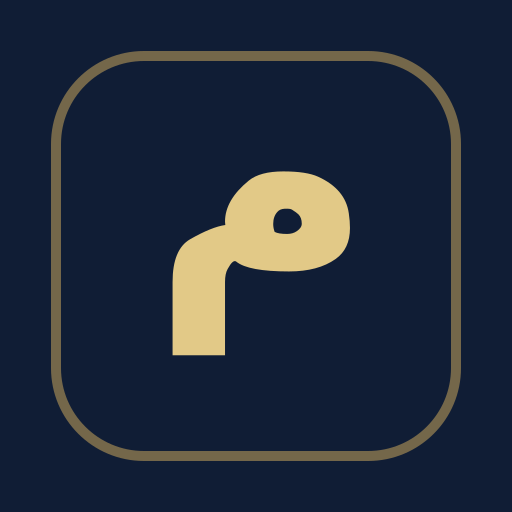
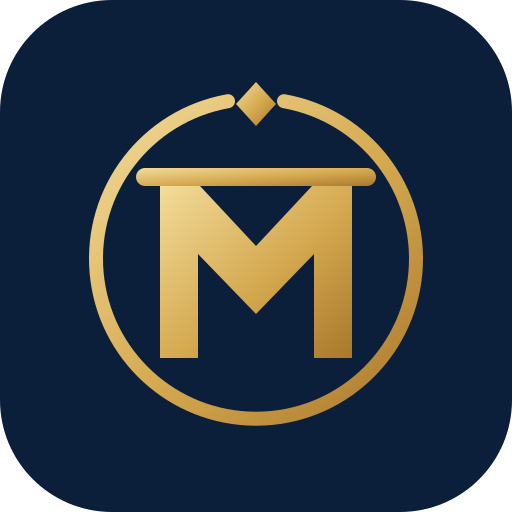
feat: v47.1 — اعتماد القيد اليدوي (المحاسب أو المالك) + غلاف المنصة + العلامة المعتمدة
- القيد اليدوي لغير المالك «بانتظار الاعتماد» ولا يدخل الدفاتر؛ يعتمده المحاسب أو المالك ولا اعتماد ذاتي؛ الرفض بسبب
- غلاف الهوية على شاشات الدخول (عمود على الحاسوب، شريط على الجوال)
- العلامة: حلقة عالمية + معين الارتكاز + M تحت عارضة الميزان — في المنصة والمطبوعات والأيقونات
- npm test 121/121، الواجهة 75/76 (الوحيد: مكتبة الباركود غير متاحة في البيئة)

Claude-Session: https://claude.ai/code/session_01Sn4X3xFJEzePhWv4WkdeCv

diff --git a/mods/acct/Accounting.jsx b/mods/acct/Accounting.jsx
@@ -6,7 +6,7 @@ import { Scale, FileBarChart, ChevronDown, Printer, Settings, Receipt, BarChart3
 import { VatRegisters, SupplierPurchReport } from './TaxPurchReports.jsx';   // v39.1
 import { Suppliers } from '../inv/Suppliers.jsx';   // v44.0 «مستلم لم يُفوتر»
 import { OdooBar } from '../../App.jsx';   // v41.0
-import { ACCT_SECTIONS, ACC_KIND, Field, Kpi, LOCK_MSG, MizanMerge, Modal, NUM_FACE, Num, ROLES, _xe, acctSecKey, arDate, bankOfBranch, branchBanks, bsLayout, bsRowsOf, buildAccounting, buildPartners, capOK, countedClosing, customerAging, detectStmtMap, entityById, entityList, gosiRatesFor, isLayout, isRowsOf, isoD, lockedThru, makeXlsx, money, monthEnd, monthLedger, multiEntityOn, naMissing, nowISO, openDocWin, parseCsvGrid, parseMt940, parseXlsxGrid, payTotal, periodLocked, posClrOf, printA4, qrSvg, roleEdit, rolePost, snapMonths, stAddDays, stDate, stNum, sum, supplierAging, today, uid, useSecNav, zatcaTLV } from '../../App.jsx';
+import { jeOwner, canApproveJe, ACCT_SECTIONS, ACC_KIND, Field, Kpi, LOCK_MSG, MizanMerge, Modal, NUM_FACE, Num, ROLES, _xe, acctSecKey, arDate, bankOfBranch, branchBanks, bsLayout, bsRowsOf, buildAccounting, buildPartners, capOK, countedClosing, customerAging, detectStmtMap, entityById, entityList, gosiRatesFor, isLayout, isRowsOf, isoD, lockedThru, makeXlsx, money, monthEnd, monthLedger, multiEntityOn, naMissing, nowISO, openDocWin, parseCsvGrid, parseMt940, parseXlsxGrid, payTotal, periodLocked, posClrOf, printA4, qrSvg, roleEdit, rolePost, snapMonths, stAddDays, stDate, stNum, sum, supplierAging, today, uid, useSecNav, zatcaTLV } from '../../App.jsx';
 
 export function Accounting({ org, ops, me, commit, commitOrg, say, setTab, acctIntent }) {
   const [view, setView] = useState('jr');           // jr قيود · coa دليل · tb ميزان · fs قوائم
@@ -1100,18 +1100,37 @@ export function Accounting({ org, ops, me, commit, commitOrg, say, setTab, acctI
   const saveJm = async () => {
     if (periodLocked(org, jm && jm.date)) return say(LOCK_MSG(jm.date), 'no');
     if (!jmOk) return say('القيد غير مكتمل — اختر الحسابات وتأكد أن مجموع المدين يساوي الدائن', 'no');
+    const direct = jeOwner(me);   // v47.1: قيد المالك يُرحَّل مباشرة، وغيره ينتظر اعتماد المحاسب أو المالك
     const rec = {
       id: uid('jm'), date: jm.date || today(), title: jm.title.trim() || (jm.opening ? 'قيد افتتاحي' : 'قيد يدوي'),
-      opening: !!jm.opening, by: me?.name || '', createdAt: nowISO(),
+      opening: !!jm.opening, by: me?.name || '', byId: me?.id || '', createdAt: nowISO(),
+      status: direct ? 'posted' : 'pending', ...(direct ? { approvedBy: me?.name || '', approvedAt: nowISO() } : {}),
       lines: jm.lines.filter(l => l.code && ((Number(l.debit) || 0) + (Number(l.credit) || 0)) > 0)
         .map(l => ({ code: l.code, debit: Number(l.debit) || 0, credit: Number(l.credit) || 0 }))
     };
     await commit(d => ({ ...d, journalManual: [rec, ...(d.journalManual || [])] }), {
       actionType: 'create', targetType: 'journal_entry', targetId: rec.id,
-      need: 'post', title: rec.opening ? 'أضاف قيدًا افتتاحيًا' : 'أضاف قيدًا محاسبيًا يدويًا',
+      need: 'post', title: (rec.opening ? 'أضاف قيدًا افتتاحيًا' : 'أضاف قيدًا محاسبيًا يدويًا') + (direct ? '' : ' (بانتظار الاعتماد)'),
       details: rec.title + ' · ' + money(sum(rec.lines, l => l.debit)) + ' ر.س'
     });
-    setJm(null); say('سُجّل القيد ✓ — التصحيح لاحقًا يكون بقيد عكسي لا بالحذف');
+    setJm(null); say(direct ? 'سُجّل القيد ✓ — التصحيح لاحقًا يكون بقيد عكسي لا بالحذف' : 'أُرسل القيد للاعتماد ✓ — يعتمده المحاسب أو المالك، ولا يدخل الدفاتر قبل ذلك');
+  };
+  // v47.1 — القيود اليدوية بانتظار الاعتماد
+  const [jePend, setJePend] = useState(false);
+  const pendJe = (ops.journalManual || []).filter(j => j.status === 'pending');
+  const decideJe = async (j, ok) => {
+    if (!canApproveJe(me, j)) return say(j.byId === me?.id || j.by === me?.name ? 'لا تعتمد قيدًا أدخلته بنفسك — يعتمده محاسب آخر أو المالك' : 'اعتماد القيود للمحاسب أو المالك', 'no');
+    if (ok && periodLocked(org, j.date)) return say(LOCK_MSG(j.date), 'no');
+    let reason = '';
+    if (!ok) { reason = (window.prompt('سبب رفض القيد «' + (j.title || '') + '»:') || '').trim(); if (!reason) return; }
+    const done = await commit(d => ({ ...d, journalManual: (d.journalManual || []).map(x => x.id === j.id && x.status === 'pending' ? { ...x, status: ok ? 'posted' : 'rejected', ...(ok ? { approvedBy: me?.name || '', approvedAt: nowISO() } : { rejectedBy: me?.name || '', rejectedAt: nowISO(), rejectReason: reason }) } : x) }),
+      { actionType: ok ? 'approve' : 'reject', targetType: 'journal_entry', targetId: j.id, need: 'post', title: (ok ? 'اعتمد' : 'رفض') + ' قيدًا يدويًا — ' + (j.title || ''), details: money(sum(j.lines || [], l => l.debit || 0)) + ' ر.س · أدخله ' + (j.by || '') + (reason ? ' · السبب: ' + reason : '') });
+    if (done) say(ok ? 'اعتُمد القيد ورُحّل للدفاتر ✓' : 'رُفض القيد');
+  };
+  const delPendJe = async (j) => {
+    if (!(j.byId === me?.id || j.by === me?.name || canApproveJe(me))) return say('الحذف لمن أدخل القيد أو للمعتمِد', 'no');
+    if (!window.confirm('حذف القيد «' + (j.title || '') + '» قبل اعتماده؟')) return;
+    await commit(d => ({ ...d, journalManual: (d.journalManual || []).filter(x => !(x.id === j.id && x.status === 'pending')) }), { actionType: 'delete', targetType: 'journal_entry', targetId: j.id, need: 'post', title: 'حذف قيدًا يدويًا قبل اعتماده — ' + (j.title || '') });
   };
 
   // v9.7 — الحسابات القابلة لإدخال رصيد افتتاحي (أصول/خصوم، عدا ضريبة ومجمع إهلاك وأصول ثابتة ورأس المال المحسوب)
@@ -1407,7 +1426,9 @@ export function Accounting({ org, ops, me, commit, commitOrg, say, setTab, acctI
           { id: 'tools', ar: 'أدوات', icon: Download, items: ['export', 'mizan'] }
         ];
         const ok = (v) => viewOK(v) && (v !== 'mizan' || canPost);
-        const manualBtn = canPost && ACCT_SECTIONS.some(s => viewOK(s.v)) && <button className="btn sm" style={{ marginInlineStart: 'auto' }} onClick={newJm}><Plus size={14} />قيد يدوي / افتتاحي</button>;
+        const manualBtn = canPost && ACCT_SECTIONS.some(s => viewOK(s.v)) && <>
+          {pendJe.length > 0 && <button className="btn sm" style={{ marginInlineStart: 'auto', color: 'var(--amber)' }} onClick={() => setJePend(true)}><ClipboardCheck size={14} />قيود بانتظار الاعتماد ({pendJe.length})</button>}
+          <button className="btn sm" style={pendJe.length ? undefined : { marginInlineStart: 'auto' }} onClick={newJm}><Plus size={14} />قيد يدوي / افتتاحي</button></>;
         const modeSw = (
           <div className="acct-mode" role="group" aria-label="طريقة عرض الأقسام">
             <button className={acctNavMode === 'dd' ? 'on' : ''} onClick={() => switchAcctNav('menu')} title="شريط قوائم"><ChevronDown size={14} /><span>قوائم</span></button>
@@ -3676,6 +3697,24 @@ export function Accounting({ org, ops, me, commit, commitOrg, say, setTab, acctI
         );
       })()}
 
+      {jePend && (
+        <Modal title={'قيود بانتظار الاعتماد (' + pendJe.length + ')'} icon={ClipboardCheck} onClose={() => setJePend(false)} wide>
+          <div className="note" style={{ marginBottom: 8 }}>يعتمد القيدَ المحاسبُ أو المالك، ولا يعتمد أحدٌ قيدًا أدخله بنفسه. القيد لا يدخل الدفاتر قبل اعتماده.</div>
+          {!pendJe.length && <div className="empty">لا قيود بانتظار الاعتماد.</div>}
+          {pendJe.map(j => <div key={j.id} className="card" style={{ marginBottom: 8 }} data-je-pending={j.id}>
+            <div className="row" style={{ justifyContent: 'space-between', flexWrap: 'wrap', gap: 6 }}><b>{j.title}</b><span className="num" style={{ fontSize: 12, color: 'var(--dim)' }}>{j.date} · أدخله {j.by}</span></div>
+            <div className="tw"><table className="tb"><thead><tr><th>الحساب</th><th style={{ textAlign: 'end' }}>مدين</th><th style={{ textAlign: 'end' }}>دائن</th></tr></thead><tbody>
+              {(j.lines || []).map((l, i) => <tr key={i}><td>{l.code} · {(A.accounts.find(a => a.code === l.code) || {}).name || ''}</td><td className="num" style={{ textAlign: 'end' }}>{l.debit ? money(l.debit) : ''}</td><td className="num" style={{ textAlign: 'end' }}>{l.credit ? money(l.credit) : ''}</td></tr>)}
+            </tbody></table></div>
+            <div className="row" style={{ gap: 6, marginTop: 6 }}>
+              {canApproveJe(me, j) && <button className="btn sm pri" onClick={() => decideJe(j, true)}><Check size={13} />اعتماد وترحيل</button>}
+              {canApproveJe(me, j) && <button className="btn sm gh" style={{ color: 'var(--rose)' }} onClick={() => decideJe(j, false)}>رفض</button>}
+              {(j.byId === me?.id || j.by === me?.name) && <button className="btn sm gh" onClick={() => delPendJe(j)}><Trash2 size={13} />حذف</button>}
+              {!canApproveJe(me, j) && <span style={{ fontSize: 12, color: 'var(--dim)', alignSelf: 'center' }}>{j.byId === me?.id || j.by === me?.name ? 'بانتظار اعتماد محاسب آخر أو المالك' : 'الاعتماد للمحاسب أو المالك'}</span>}
+            </div>
+          </div>)}
+        </Modal>
+      )}
       {jm && (
         <Modal title={jm.opening ? 'قيد افتتاحي' : 'قيد محاسبي يدوي'} sub="مجموع المدين يجب أن يساوي مجموع الدائن — وكل سطر في جهة واحدة فقط"
           icon={FileText} onClose={() => setJm(null)} wide

diff --git a/App.jsx b/App.jsx
@@ -2416,7 +2416,8 @@ function buildAccounting(org, ops) {
   }
 
   // 9مكرر) القيود اليدوية والافتتاحية — يُدخلها المحاسب من شاشة المحاسبة (التصحيح بقيد عكسي لا بالحذف)
-  (ops.journalManual || []).forEach(j => {
+  // v47.1: القيد بانتظار الاعتماد أو المرفوض لا يُرحَّل (القيود القديمة والآلية بلا حالة = مرحّلة)
+  (ops.journalManual || []).filter(jeLive).forEach(j => {
     push({
       id: 'man:' + j.id, date: (j.date || '').slice(0, 10),
       title: j.title || 'قيد يدوي', src: j.opening ? 'قيد افتتاحي' : j.vatClose ? 'إقفال ضريبي' : j.vatPay ? 'سداد ضريبة' : (j.mizanSales ? 'مبيعات مستوردة' : 'قيد يدوي'),
@@ -2523,7 +2524,15 @@ const readMode = () => { try { return localStorage.getItem('rms8:mode') === 'dar
 const themeCls = (t, mode) => { const n = normTheme(t); return 'rms mode-' + (mode === 'dark' ? 'dark' : 'light') + (n === 'restpro' ? ' thm-mizan thm-restpro' : ' thm-' + n); };
 // v46.8: الهوية «مِثقال — Mithqal» وشعارها؛ الترجمة الإنجليزية في i18n.js (TX)
 const BRAND = 'مِثقال', BRAND_SUB = 'منصة واحدة، لكل الأعمال ومن أي مكان', BRAND_AR = 'مِثقال — Mithqal';
-const BRAND_MARK = () => (isEn() ? 'M' : 'م');
+// v47.1 — العلامة المعتمدة: حلقة عالمية (عملة/كرة أرضية) مفتوحة أعلاها لمعين الارتكاز، وحرف M معلّق تحت عارضة الميزان.
+// لون واحد (currentColor) فتأخذ لون الحاوية: كحلي على الذهبي في المنصة.
+const BRAND_MARK = () => (
+  <svg viewBox="0 0 200 200" width="78%" height="78%" aria-hidden="true" style={{ display: 'block' }}>
+    <path d="M86 22.6 A80 80 0 1 0 114 22.6" fill="none" stroke="currentColor" strokeWidth="9" strokeLinecap="round" />
+    <path d="M100 12 l11 12 -11 12 -11 -12z" fill="currentColor" />
+    <rect x="40" y="56" width="120" height="10" rx="5" fill="currentColor" />
+    <path d="M52 66 h20 l28 30 28 -30 h20 v85 h-19 v-51 l-29 30 -29 -30 v51 h-19z" fill="currentColor" />
+  </svg>);
 
 // v44.0 — قرار المالك: تحويل الاستلام غير المطابق إلى فاتورة للمحاسب ومدير النظام فقط (يُفرض في قواعد Firestore: [ROLES:PINV])
 const INV_BILLERS = ['accountant', 'system_admin'];
@@ -2590,6 +2599,12 @@ const ROLES = {
 // v15.9: اشتقاق صلاحيات الكتابة من الدور — canPost=إدخال/ترحيل، canEdit=تعديل/حذف/تغيير إعدادات.
 // (للأدوار القائمة: readOnly/postOnly غير معرّفين ⇒ canPost=canEdit=النطاق الكامل، بلا أي تغيير سلوك.)
 const rolePost = (role) => ROLES[role]?.scope === 'all' && !ROLES[role]?.readOnly;
+/* v47.1 — اعتماد القيد اليدوي (قرار المالك): يعتمده المحاسب أو المالك.
+   قيد المالك (مسؤول النظام/الإدارة العليا) يُرحَّل مباشرة؛ قيد غيره ينتظر الاعتماد، ولا يعتمد أحدٌ قيدًا أدخله بنفسه.
+   المرحّل فقط يدخل الدفاتر؛ المرفوض يبقى للأثر بسببه. */
+const jeLive = (j) => !j || !j.status || j.status === 'posted';
+const jeOwner = (me) => !!(ROLES[me?.role] || {}).admin;
+const canApproveJe = (me, j) => !!me && (jeOwner(me) || ['accountant', 'finance_department'].includes(me.role)) && (!j || (j.byId ? j.byId !== me.id : j.by !== me.name));
 const isCostCtl = (me) => !!(ROLES[me?.role] || {}).costCtl;   // v37.8 مراقب التكاليف: يعتمد ويراقب ولا يُدخل حركات
 // v27.1 — نطاق فروع المستخدم كما تعرضه الواجهة (myBranches): null = كل الفروع (المركز)، وإلا قائمة معرّفات.
 // نطاق الكتابة (dataCtx.myBrIds) يجب أن يطابقه حرفيًا — أي سجل بفرع خارج هذا النطاق لا يُحفظ من جهاز الفرع.
@@ -2984,7 +2999,7 @@ function emptyOps() {
    ويُحفظ آخر 20 خطأ على الجهاز (للإرسال للدعم) — لا تتوقف المنصة كلها بسبب قسم واحد */
 const ERRLOG_KEY = 'mizan:errlog';
 // v38.5 — رقم الإصدار في مكان واحد (الشريط العلوي وسجل الأخطاء)
-const APP_VER = 'v47.0';
+const APP_VER = 'v47.1';
 // سياق المستخدم الحالي لسجل الأخطاء (يُضبط عند الدخول) — بلا بيانات تشغيل
 const ERR_CTX = { role: '', branchId: '' };
 const errSig = (s) => { let h = 2166136261; for (let i = 0; i < s.length; i++) { h ^= s.charCodeAt(i); h = Math.imul(h, 16777619); } return (h >>> 0).toString(16); };
@@ -3039,7 +3054,8 @@ class ErrorBoundary extends React.Component {
   }
 }
 export { ErrorBoundary, logClientError, lockedLedgerChanged };
-export { posReturnable, posReturnCalc, posRefundOptions, posReturnHtml, saleRetUse, posReturnLoyDed };   // v46.8 مرتجع نقطة البيع   // v46.8: للاختبارات الوظيفية (حارس الإقفال)
+export { posReturnable, posReturnCalc, posRefundOptions, posReturnHtml, saleRetUse, posReturnLoyDed };
+export { jeLive, jeOwner, canApproveJe };   // v47.1 اعتماد القيد اليدوي   // v46.8 مرتجع نقطة البيع   // v46.8: للاختبارات الوظيفية (حارس الإقفال)
 if (typeof window !== 'undefined' && !window.__mizanErrHook) {
   window.__mizanErrHook = true;
   window.addEventListener('error', (e) => logClientError(e.error || e.message, 'window'));
@@ -4432,6 +4448,8 @@ function PlatformApp() {
 }
 
 /* ================= بوابة الدخول ================= */
+// v47.1 — غلاف المنصة (قرار المالك): صورة الهوية بجانب الدخول على الحاسوب، وأعلاه على الجوال
+const GateCover = () => <div className="gate-cover" role="img" aria-label={TX(BRAND_AR) + ' — ' + TX(BRAND_SUB)} />;
 function BrandHead({ title, sub, logo }) {
   return (
     <div className="bhead" style={{ textAlign: 'center', marginBottom: 24 }}>
@@ -4477,7 +4495,7 @@ function FirstRun({ css, theme, commitOrg, say, onDone }) {
   return (
     <div className={themeCls(theme, readMode())}>
       <style dangerouslySetInnerHTML={{ __html: css }} />
-      <div className="gate">
+      <div className="gate has-cover"><GateCover />
         <div className="gate-c">
           <BrandHead title="تهيئة المنصة لأول مرة" sub="أنشئ حساب المالك — سيكون لك وصول كامل لكل الشاشات" />
           <div className="card">
@@ -4643,7 +4661,7 @@ function FbGate({ css, theme, fbLogin, fbMfa, fbFirstSetup, notice }) {
   return (
     <div className={themeCls(theme, readMode())}>
       <style dangerouslySetInnerHTML={{ __html: css }} />
-      <div className="gate">
+      <div className="gate has-cover"><GateCover />
         <div className="gate-c">
           <BrandHead title={BRAND_AR} sub={TX(BRAND_SUB)} />
           <div className="row" style={{ justifyContent: 'center', marginBottom: 16 }}>
@@ -4869,7 +4887,7 @@ function Gate({ css, org, onLogin, online, theme, notice }) {
   return (
     <div className={themeCls(theme, readMode())}>
       <style dangerouslySetInnerHTML={{ __html: css }} />
-      <div className="gate">
+      <div className="gate has-cover"><GateCover />
         <div className="gate-c">
           <BrandHead title={org.company?.name || TX(BRAND)} sub={TX(BRAND_AR) + ' — ' + TX(BRAND_SUB)} logo={org.company?.logoUrl} />
           <div className="row" style={{ justifyContent: 'center', marginBottom: 16 }}>
@@ -7836,7 +7854,7 @@ const docInApp = () => { try { return isStandaloneApp() || isIOSDev() || /Androi
    mzBrandDoc: يضيف توقيع «RESTAURANT PRO» بالشعار في تذييل كل مستند (أو سطرًا صغيرًا إن لم يوجد تذييل) — مرة واحدة فقط. */
 // v42.1: علامة RESTAURANT PRO في المطبوعات — مربع كحلي بحرفَي RP الذهبيين (المعامِلات القديمة مقبولة للتوافق)
 const mzSvg = (size) => '<svg xmlns="http://www.w3.org/2000/svg" width="' + size + '" height="' + size + '" viewBox="0 0 64 64" style="vertical-align:middle;flex-shrink:0">' +
-  '<rect width="64" height="64" rx="14" fill="#101D35"/><text x="32" y="41" text-anchor="middle" font-family="Arial,Helvetica,sans-serif" font-weight="800" font-size="34" fill="#C7A45B">م</text></svg>';
+  '<rect width="64" height="64" rx="14" fill="#101D35"/><g transform="translate(7 7) scale(.25)"><path d="M86 22.6 A80 80 0 1 0 114 22.6" fill="none" stroke="#C7A45B" stroke-width="9" stroke-linecap="round"/><path d="M100 12 l11 12 -11 12 -11 -12z" fill="#C7A45B"/><rect x="40" y="56" width="120" height="10" rx="5" fill="#C7A45B"/><path d="M52 66 h20 l28 30 28 -30 h20 v85 h-19 v-51 l-29 30 -29 -30 v51 h-19z" fill="#C7A45B"/></g></svg>';   // v47.1 العلامة المعتمدة
 const MZ_LOGO_HTML = '<span class="logo" style="display:inline-grid;place-items:center;border-radius:8px">' + mzSvg(30) + '</span>';
 const mzBrandDoc = (html) => {
   html = String(html || '');

diff --git a/styles.js b/styles.js
@@ -1865,4 +1865,18 @@ table.tb.tb-fp{min-width:520px}
 .rms.lang-en .is-tb tr.flag td:first-child{box-shadow:inset 3px 0 0 var(--amber)}
 .rms.lang-en .tb tr.cnt-bad td:first-child{box-shadow:inset 3px 0 0 var(--rose)}
 .rms.lang-en .langbtn{font-family:inherit}
+
+/* v47.1 غلاف المنصة: صورة الهوية — على الحاسوب عمود بجانب بطاقة الدخول، وعلى الجوال شريط أعلاها */
+.gate-cover{display:none}
+.gate.has-cover .gate-cover{display:block;background:#071A35 url(cover.webp) center/contain no-repeat}
+@media (min-width:960px){
+  .gate.has-cover{grid-template-columns:minmax(0,1.35fr) minmax(420px,1fr);place-items:stretch;padding:0 !important;gap:0}
+  .gate.has-cover .gate-cover{min-height:100vh;box-shadow:inset -40px 0 60px -40px rgba(0,0,0,.45)}
+  .gate.has-cover .gate-c{align-self:center;justify-self:center;width:100%;max-width:440px;padding:32px 24px;box-sizing:border-box;position:relative;z-index:1}
+}
+@media (max-width:959px){
+  .gate.has-cover{place-items:start center;padding:0 0 calc(14px + env(safe-area-inset-bottom)) !important;row-gap:18px}
+  .gate.has-cover .gate-cover{justify-self:stretch;width:100%;aspect-ratio:3/2;max-height:44vh;background-size:cover}
+  .gate.has-cover .gate-c{width:calc(100% - 28px)}
+}
 `;

diff --git a/PROJECT_AUDIT/RELEASE_NOTES.md b/PROJECT_AUDIT/RELEASE_NOTES.md
@@ -51,3 +51,8 @@
 - **المرتجع يخصم نقاط الولاء** بنسبته: يبقى للعميل من نقاط الفاتورة بقدر ما بقي من مبلغها (بالتقريب للأسفل)؛ المرتجع الكامل يخصمها كلها، ومجموع الخصم عبر عدة مرتجعات لا يتجاوز ما اكتُسب. يظهر الخصم في نافذة المرتجع والرسالة والإشعار الدائن.
 - **سجلات الإغلاق المستقلة مفعّلة افتراضيًا** (المرحلة الأولى: نسخ كل إغلاق إلى سجل محمي بالقواعد). تُطفأ صراحةً فقط من «صيانة النظام». **القراءة من السجلات** (المرحلة الثانية التي تجعل السجل المحمي هو المصدر) تبقى يدوية بعد «ترحيل الإغلاقات الحالية» و«مطابقة» نظيفة.
 - شرط عمل الحماية: نشر `firestore.rules` الحالية في Firebase (فيها قواعد `closings/{id}`). إن لم تكن منشورة يفشل النسخ بصمت دون أن يعطل الحفظ، ويظهر العدّاد في «صيانة النظام».
+
+## v47.1 — اعتماد القيد اليدوي + غلاف المنصة + العلامة المعتمدة (قرارات المالك)
+- **اعتماد القيد اليدوي:** قيد المالك (مسؤول النظام/الإدارة العليا) يُرحَّل مباشرة؛ قيد غيره يُسجَّل «بانتظار الاعتماد» ولا يدخل الدفاتر حتى يعتمده **المحاسب أو المالك**. لا يعتمد أحدٌ قيدًا أدخله بنفسه. الرفض بسبب إلزامي ويبقى للأثر. زر «قيود بانتظار الاعتماد (n)» في المحاسبة. القيود القديمة والآلية (الإقفال الضريبي، المطابقات، ميزان) بلا تغيير.
+- **غلاف المنصة:** صورة الهوية على شاشات الدخول والتهيئة — عمود بجانب بطاقة الدخول على الحاسوب، وشريط أعلاها على الجوال (`public/cover.webp` 77KB).
+- **العلامة المعتمدة:** حلقة عالمية مفتوحة لمعين الارتكاز + حرف M معلّق تحت عارضة الميزان؛ في القائمة الجانبية وشاشة الدخول والمطبوعات وأيقونات التطبيق (SVG/PNG). نظام الهوية الكامل على لوحة التصميم.

diff --git a/PROJECT_AUDIT/FUNCTIONAL_AUDIT/FUNCTIONAL_GAP_REGISTER.md b/PROJECT_AUDIT/FUNCTIONAL_AUDIT/FUNCTIONAL_GAP_REGISTER.md
@@ -11,7 +11,7 @@
 | GAP-005 | P1 | نقطة البيع | MISSING | مرتجع جزئي لفاتورة مكتملة | **مُنفَّذ v46.9** (قرار المالك: هدر، مدير الفرع، الطريقة الأصلية أو نقدًا، أسباب الهدر) — 3 اختبارات محرك + اختبار واجهة |
 | GAP-006 | — | نقطة البيع | ~~MISSING~~ | الدفع المختلط لفاتورة واحدة | **تصحيح: موجود** — زر «تقسيم» وإضافة دفعات متعددة (نقد/شبكة/تحويل/تطبيق) لفاتورة واحدة. كان تصنيفي خاطئًا |
 | GAP-007 | P2 | نقطة البيع | PARTIAL | تعليق الفاتورة واستدعاؤها | الطاولات والحساب المفتوح تغطي حالة المطعم (اختبار 39)؛ لا تعليق لفاتورة سفري — مفتوح |
-| GAP-008 | P1 | المحاسبة | MISSING | دورة اعتماد للقيد اليدوي (مسودة ← اعتماد ← ترحيل) | مفتوح — يحتاج قرارًا: هل المطلوب فصل المُدخل عن المعتمِد؟ |
+| GAP-008 | P1 | المحاسبة | MISSING | دورة اعتماد للقيد اليدوي (مسودة ← اعتماد ← ترحيل) | **مُنفَّذ v47.1** (قرار المالك: المحاسب أو المالك؛ لا اعتماد ذاتي؛ قيد المالك مباشر) — اختبار محرك + اختبار واجهة |
 | GAP-009 | P1 | الموارد البشرية | NOT TESTED | حساب كشف الراتب الشهري والإضافي والحضور بأرقام | مفتوح — الدفعة التالية |
 | GAP-010 | P2 | المحاسبة | PARTIAL | لا زر «عكس القيد» (التصحيح بقيد يدوي معاكس) | مفتوح |
 | GAP-011 | P2 | المحاسبة | MISSING | بُعد «المشروع»، ومركز تكلفة لكل سطر في القيد اليدوي | مفتوح — قرار: هل تحتاجه المطاعم؟ |

diff --git a/README.md b/README.md
@@ -1,6 +1,6 @@
 # مثقال (Mithqal) — منصة إدارة المطاعم متعددة الفروع
 
-> الإصدار: **v47.0** — فرع التطوير: `mithqal-erp-2` — الشعار: «منصة واحدة، لكل الأعمال ومن أي مكان» — One platform for every business, from anywhere.
+> الإصدار: **v47.1** — فرع التطوير: `mithqal-erp-2` — الشعار: «منصة واحدة، لكل الأعمال ومن أي مكان» — One platform for every business, from anywhere.
 > سابقًا: «ميزان» و«منصة الإغلاق اليومي».
 
 منصة سحابية عربية (RTL) مع دعم الإنجليزية: الإغلاق اليومي، المحاسبة بالقيد المزدوج، المخزون والمشتريات،
